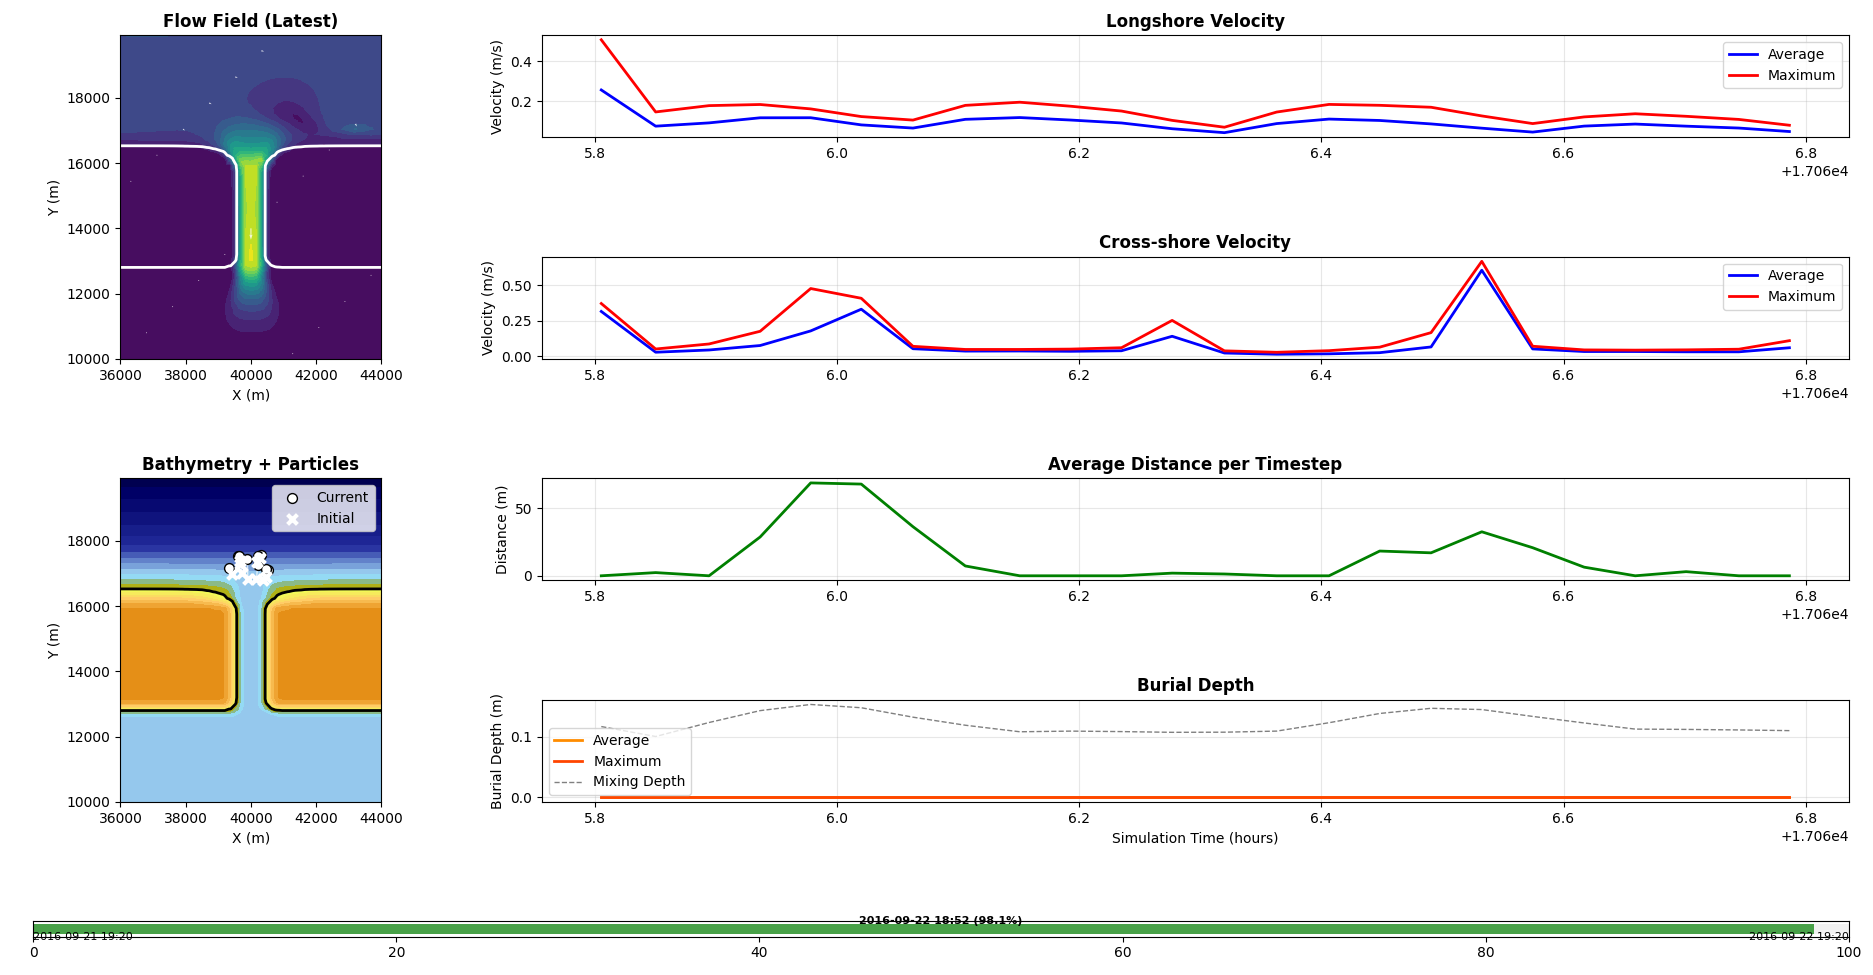
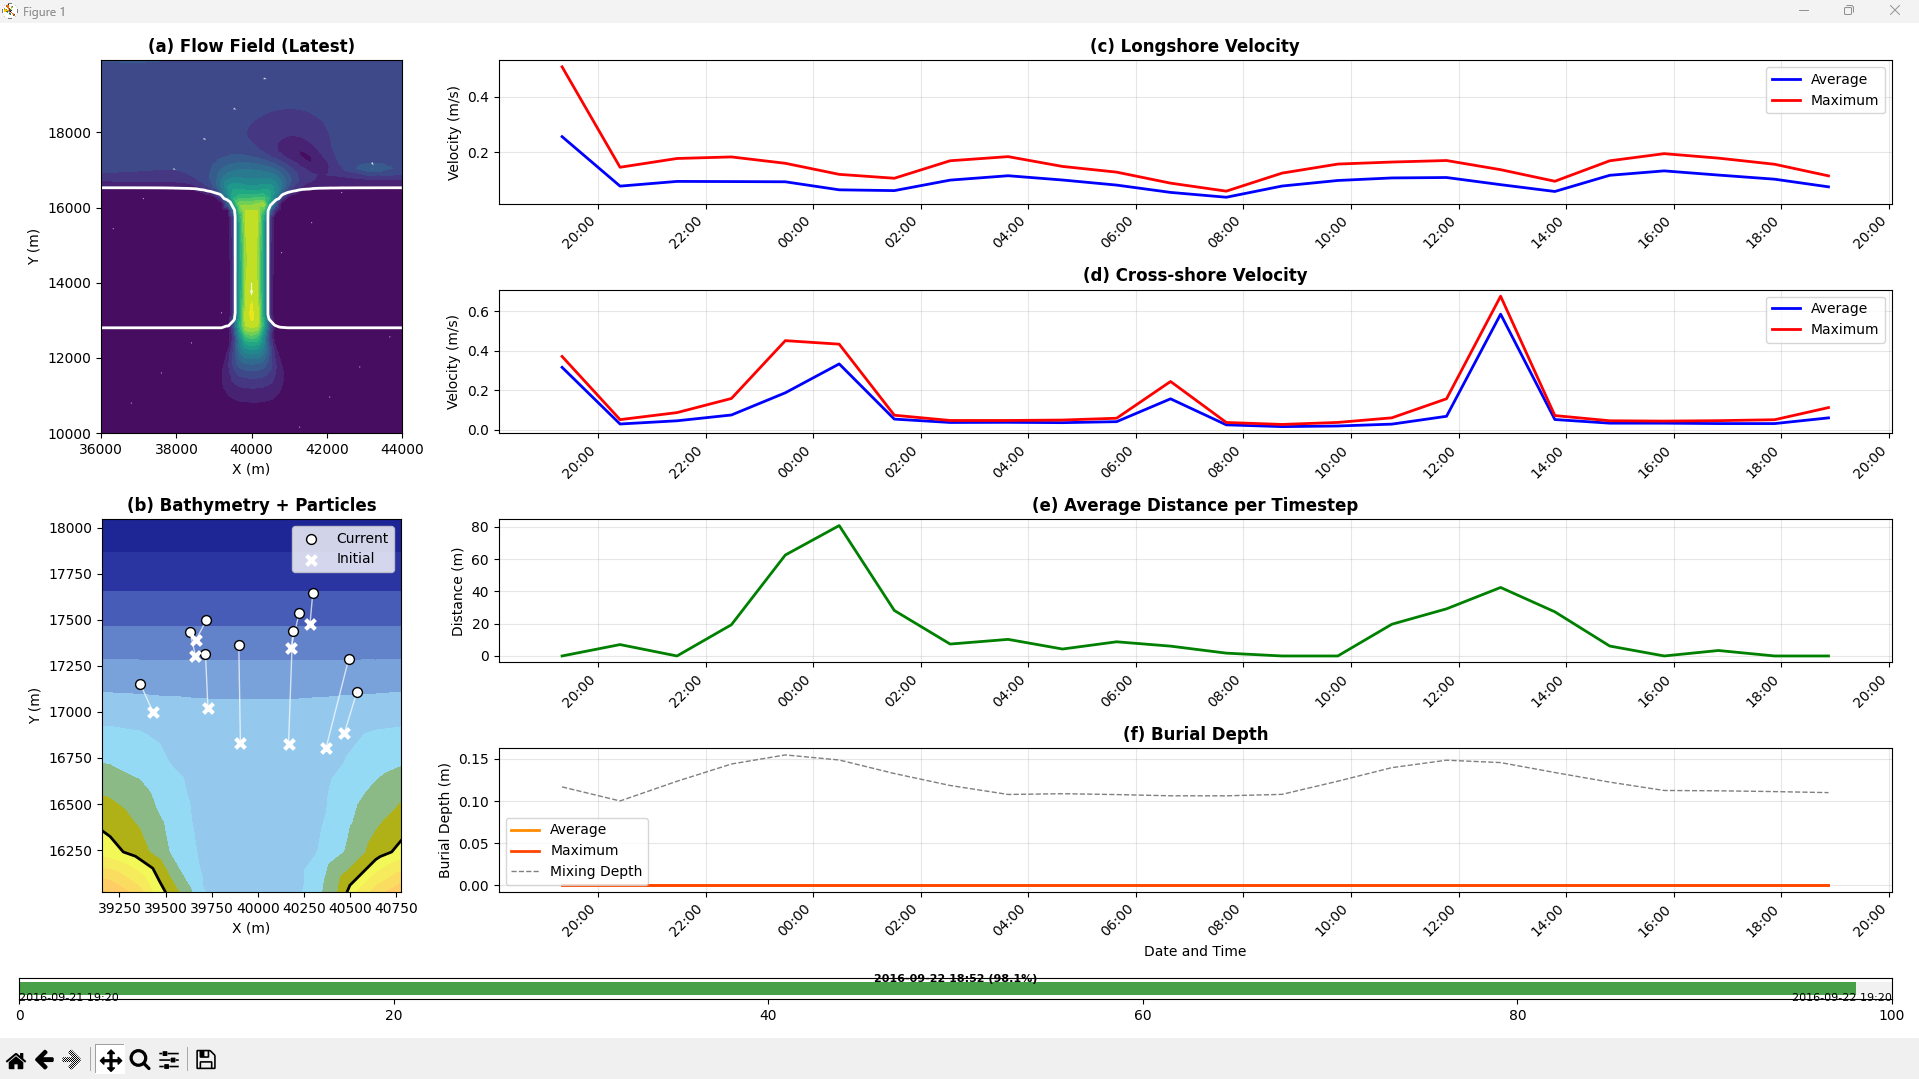
Add adaptive date formatting to dashboard plots
Time series plots in SimulationDashboard now use adaptive date formatting for x-axes, improving readability for short, multi-day, and long simulations. Documentation and plot titles updated to reflect changes, and a test script was added to demonstrate the new formatting.

diff --git a/src/sedtrails/pathway_visualizer/simulation_dashboard.py b/src/sedtrails/pathway_visualizer/simulation_dashboard.py
@@ -8,6 +8,7 @@ simulations with spatial and temporal visualizations.
 import numpy as np
 import matplotlib.pyplot as plt
 from matplotlib.colors import ListedColormap
+import matplotlib.dates as mdates
 from collections import defaultdict
 from pathlib import Path
 import datetime
@@ -173,11 +174,17 @@ class SimulationDashboard:
 
     def _setup_time_series_plots(self) -> None:
         """Set up empty line plots for time series data."""
+        # Set up date formatter for all time series plots
+        # Use a compact format to fit better in the available space
+        date_fmt = mdates.DateFormatter('%m-%d %H:%M')
+        
         # Longshore velocity
         (self.lines['longshore_avg'],) = self.axes['longshore_vel'].plot([], [], 'b-', label='Average', linewidth=2)
         (self.lines['longshore_max'],) = self.axes['longshore_vel'].plot([], [], 'r-', label='Maximum', linewidth=2)
         self.axes['longshore_vel'].legend()
         self.axes['longshore_vel'].set_ylabel('Velocity (m/s)')
+        self.axes['longshore_vel'].xaxis.set_major_formatter(date_fmt)
+        self.axes['longshore_vel'].xaxis.set_major_locator(mdates.HourLocator(interval=6))
         self.axes['longshore_vel'].grid(True, alpha=0.3)
 
         # Cross-shore velocity
@@ -185,11 +192,15 @@ class SimulationDashboard:
         (self.lines['crossshore_max'],) = self.axes['crossshore_vel'].plot([], [], 'r-', label='Maximum', linewidth=2)
         self.axes['crossshore_vel'].legend()
         self.axes['crossshore_vel'].set_ylabel('Velocity (m/s)')
+        self.axes['crossshore_vel'].xaxis.set_major_formatter(date_fmt)
+        self.axes['crossshore_vel'].xaxis.set_major_locator(mdates.HourLocator(interval=6))
         self.axes['crossshore_vel'].grid(True, alpha=0.3)
 
         # Distance
         (self.lines['distance'],) = self.axes['distance'].plot([], [], 'g-', linewidth=2)
         self.axes['distance'].set_ylabel('Distance (m)')
+        self.axes['distance'].xaxis.set_major_formatter(date_fmt)
+        self.axes['distance'].xaxis.set_major_locator(mdates.HourLocator(interval=6))
         self.axes['distance'].grid(True, alpha=0.3)
 
         # Burial depth
@@ -200,7 +211,9 @@ class SimulationDashboard:
         )
         self.axes['burial_depth'].legend()
         self.axes['burial_depth'].set_ylabel('Burial Depth (m)')
-        self.axes['burial_depth'].set_xlabel('Simulation Time (hours)')
+        self.axes['burial_depth'].set_xlabel('Date and Time')
+        self.axes['burial_depth'].xaxis.set_major_formatter(date_fmt)
+        self.axes['burial_depth'].xaxis.set_major_locator(mdates.HourLocator(interval=6))
         self.axes['burial_depth'].grid(True, alpha=0.3)
 
     def _setup_progress_bar(self) -> None:
@@ -348,7 +361,7 @@ class SimulationDashboard:
         ax.set_xlabel('X (m)')
         ax.set_ylabel('Y (m)')
         ax.set_aspect('equal')
-        ax.set_title('Flow Field (Latest)', fontsize=12, fontweight='bold')
+        ax.set_title('(a) Flow Field (Latest)', fontsize=12, fontweight='bold')
 
     def _update_bathymetry_plot(
         self, flow_field: Dict[str, np.ndarray], bathymetry: np.ndarray, particles: Dict[str, np.ndarray]
@@ -411,7 +424,7 @@ class SimulationDashboard:
         ax.set_xlabel('X (m)')
         ax.set_ylabel('Y (m)')
         ax.set_aspect('equal')
-        ax.set_title('Bathymetry + Particles', fontsize=12, fontweight='bold')
+        ax.set_title('(b) Bathymetry + Particles', fontsize=12, fontweight='bold')
 
     def _update_time_series_plots(self) -> None:
         """Update all time series plots."""
@@ -420,22 +433,55 @@ class SimulationDashboard:
 
         times = self.time_stamps  # Already datetime objects
 
+        # Dynamically adjust date format based on time span
+        time_span = times[-1] - times[0]
+        if time_span.days > 7:
+            # For longer simulations, use date without time
+            date_fmt = mdates.DateFormatter('%m-%d')
+            locator = mdates.DayLocator(interval=1)
+        elif time_span.days > 1:
+            # For multi-day simulations, use date and time
+            date_fmt = mdates.DateFormatter('%m-%d %H:%M')
+            locator = mdates.HourLocator(interval=12)
+        else:
+            # For short simulations, use time only
+            date_fmt = mdates.DateFormatter('%H:%M')
+            locator = mdates.HourLocator(interval=2)
+
         # Longshore velocity
         self.lines['longshore_avg'].set_data(times, self.data_store['longshore_avg'])
         self.lines['longshore_max'].set_data(times, self.data_store['longshore_max'])
         self.axes['longshore_vel'].relim()
         self.axes['longshore_vel'].autoscale_view()
+        self.axes['longshore_vel'].xaxis.set_major_formatter(date_fmt)
+        self.axes['longshore_vel'].xaxis.set_major_locator(locator)
+        # Rotate x-axis labels for better readability
+        for label in self.axes['longshore_vel'].get_xticklabels():
+            label.set_rotation(45)
+            label.set_ha('right')
 
         # Cross-shore velocity
         self.lines['crossshore_avg'].set_data(times, self.data_store['crossshore_avg'])
         self.lines['crossshore_max'].set_data(times, self.data_store['crossshore_max'])
         self.axes['crossshore_vel'].relim()
         self.axes['crossshore_vel'].autoscale_view()
+        self.axes['crossshore_vel'].xaxis.set_major_formatter(date_fmt)
+        self.axes['crossshore_vel'].xaxis.set_major_locator(locator)
+        # Rotate x-axis labels for better readability
+        for label in self.axes['crossshore_vel'].get_xticklabels():
+            label.set_rotation(45)
+            label.set_ha('right')
 
         # Distance
         self.lines['distance'].set_data(times, self.data_store['distance'])
         self.axes['distance'].relim()
         self.axes['distance'].autoscale_view()
+        self.axes['distance'].xaxis.set_major_formatter(date_fmt)
+        self.axes['distance'].xaxis.set_major_locator(locator)
+        # Rotate x-axis labels for better readability
+        for label in self.axes['distance'].get_xticklabels():
+            label.set_rotation(45)
+            label.set_ha('right')
 
         # Burial depth
         self.lines['burial_avg'].set_data(times, self.data_store['burial_avg'])
@@ -443,6 +489,12 @@ class SimulationDashboard:
         self.lines['mixing_depth'].set_data(times, self.data_store['mixing_depth'])
         self.axes['burial_depth'].relim()
         self.axes['burial_depth'].autoscale_view()
+        self.axes['burial_depth'].xaxis.set_major_formatter(date_fmt)
+        self.axes['burial_depth'].xaxis.set_major_locator(locator)
+        # Rotate x-axis labels for better readability
+        for label in self.axes['burial_depth'].get_xticklabels():
+            label.set_rotation(45)
+            label.set_ha('right')
 
         # Apply tight layout again after data updates
         plt.tight_layout()

diff --git a/docs/user/dashboard.md b/docs/user/dashboard.md
@@ -10,13 +10,21 @@ There is a [known issue](https://github.com/sedtrails/sedtrails/issues/355) wher
 
 ## Navigating the Dashboard
 
-- (a) In the top left panel we see the latest flow field timestep. The colour scale corresponds to the magnitude of the flow field and vectors indicating direction are displayed on top.
-- (b) In the bottom left panel, we see the bathymetry and particle positions overlaid. Initial positions are marked with Xs, and the position at the current timestep is indicated with a circle.
-- (c) The top right panel shows the average and maximum magnitude (?) of the alongshore velocity of all particles. For now it is assumed that the alongshore velocity is in the X direction.
-- (d) The next panel shows the average and maximum magnitude (?) of the cross-shore velocity of all particles. For now it is assumed that the cross-shore velocity is in the Y direction.
-- (e) The next panel average distance per timestep indicates the average distance travelled by all particles in each timestep. This is perhaps the most important diagnostic tool: if the travel distance of your particles is zero and you expect them to move (given your particle characteristics and flow conditions), something may be wrong!
-- (f) The bottom right panel indicates the average and maximum depths at which particles are buried ($\delta_{burial}$) and the mixing depth ($\delta_{mix}$ in [van Westen et al (2025)](https://doi.org/10.1038/s41598-025-92910-z))
+- **(a) Flow Field (Latest)**: we see the latest flow field timestep. The colour scale corresponds to the magnitude of the flow field and vectors indicating direction are displayed on top.
+- **(b) Bathymetry + Particles**: the bathymetry and particle positions overlaid. Initial positions are marked with Xs, and the position at the current timestep is indicated with a circle. 
+- **(c) Longshore Velocity**: the average and maximum magnitude (?) of the alongshore velocity of all particles. For now it is assumed that the alongshore velocity is in the X direction.
+- **(d) Cross-shore Velocity**: the average and maximum magnitude (?) of the cross-shore velocity of all particles. For now it is assumed that the cross-shore velocity is in the Y direction.
+- **(e) Average Distance per Timestep**: the average distance travelled by all particles in each output (not computational!) timestep. This is perhaps the most important diagnostic tool: if the travel distance of your particles is zero and you expect them to move (given your particle characteristics and flow conditions), something may be wrong!
+- **(f) Burial Depth**: the average and maximum depths at which particles are buried ($\delta_{burial}$) and the mixing depth ($\delta_{mix}$ in [van Westen et al (2025)](https://doi.org/10.1038/s41598-025-92910-z))
 - The progress bar at the bottom indicates the current simulation timestep and the relative percentage of your total run that is complete.
+
+Note that it is possible to zoom and pan using the buttons in the bottom right corner. Pressing the "home" icon will return the default view. Clicking the "save" button gives the option to save the view as a ``*.png`` file.
+
+The dashboard uses adaptive date formatting, automatically adjusting based on simulation duration:
+  - **Short simulations** (< 1 day): Shows time only in HH:MM format
+  - **Multi-day simulations** (1-7 days): Shows date and time in MM-DD HH:MM format  
+  - **Long simulations** (> 7 days): Shows date only in MM-DD format
+
 
 Future implementations will allow for more customization of the dashboard and optimize it for speed. However, it is primarily intended as an "is my model actually running as I intend it?" diagnostic, so users are advised to use the model output files and other visualization utilities to plot their results.
 
